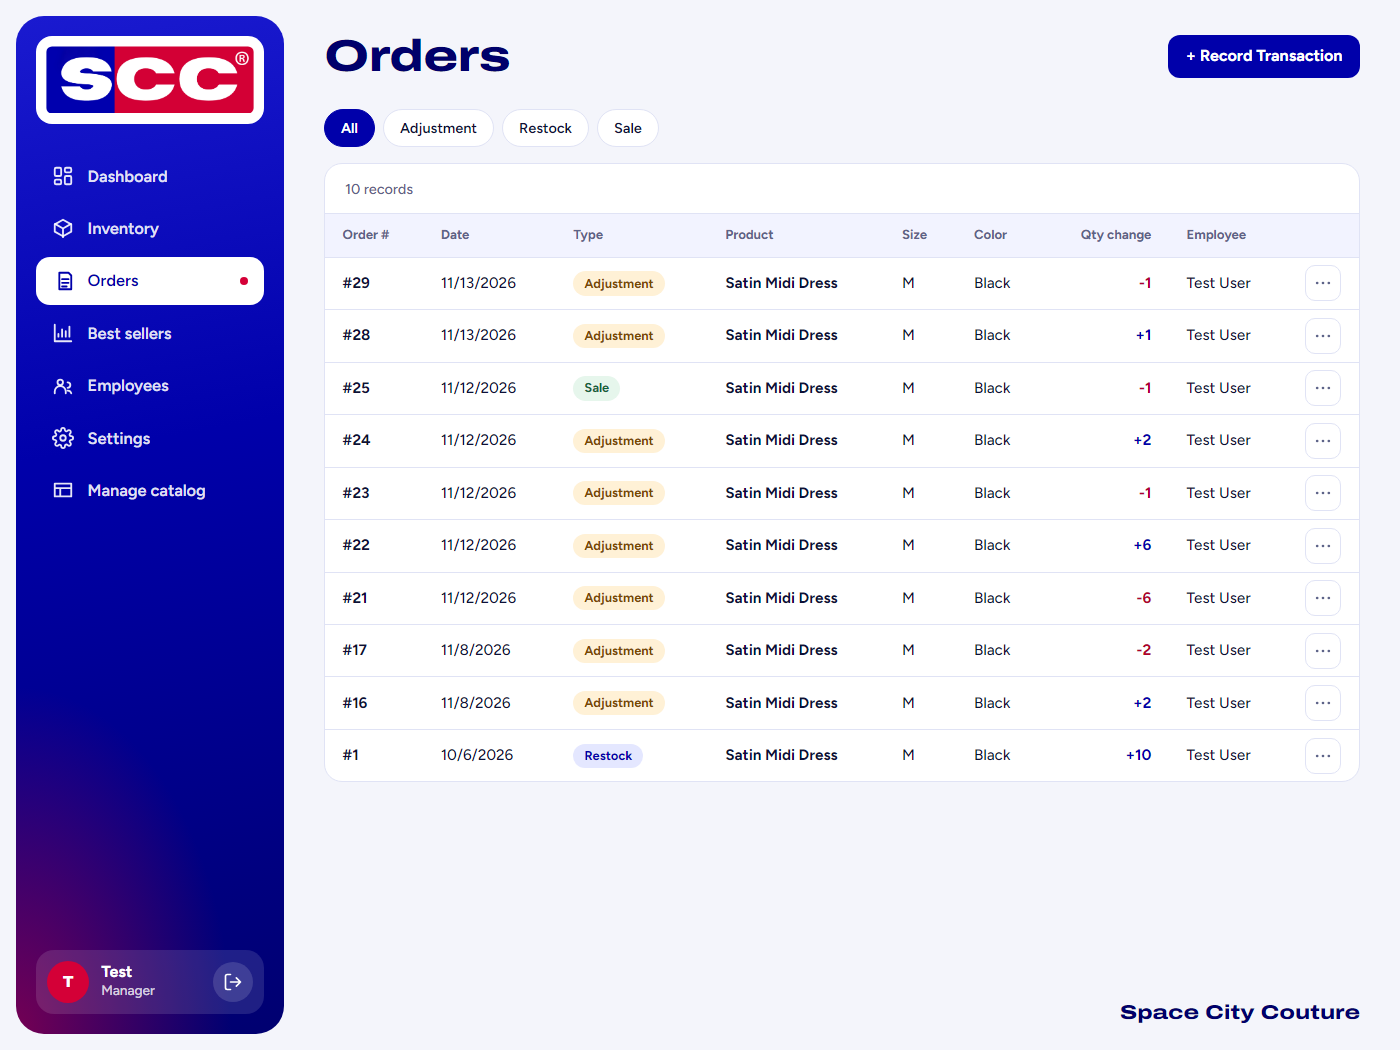
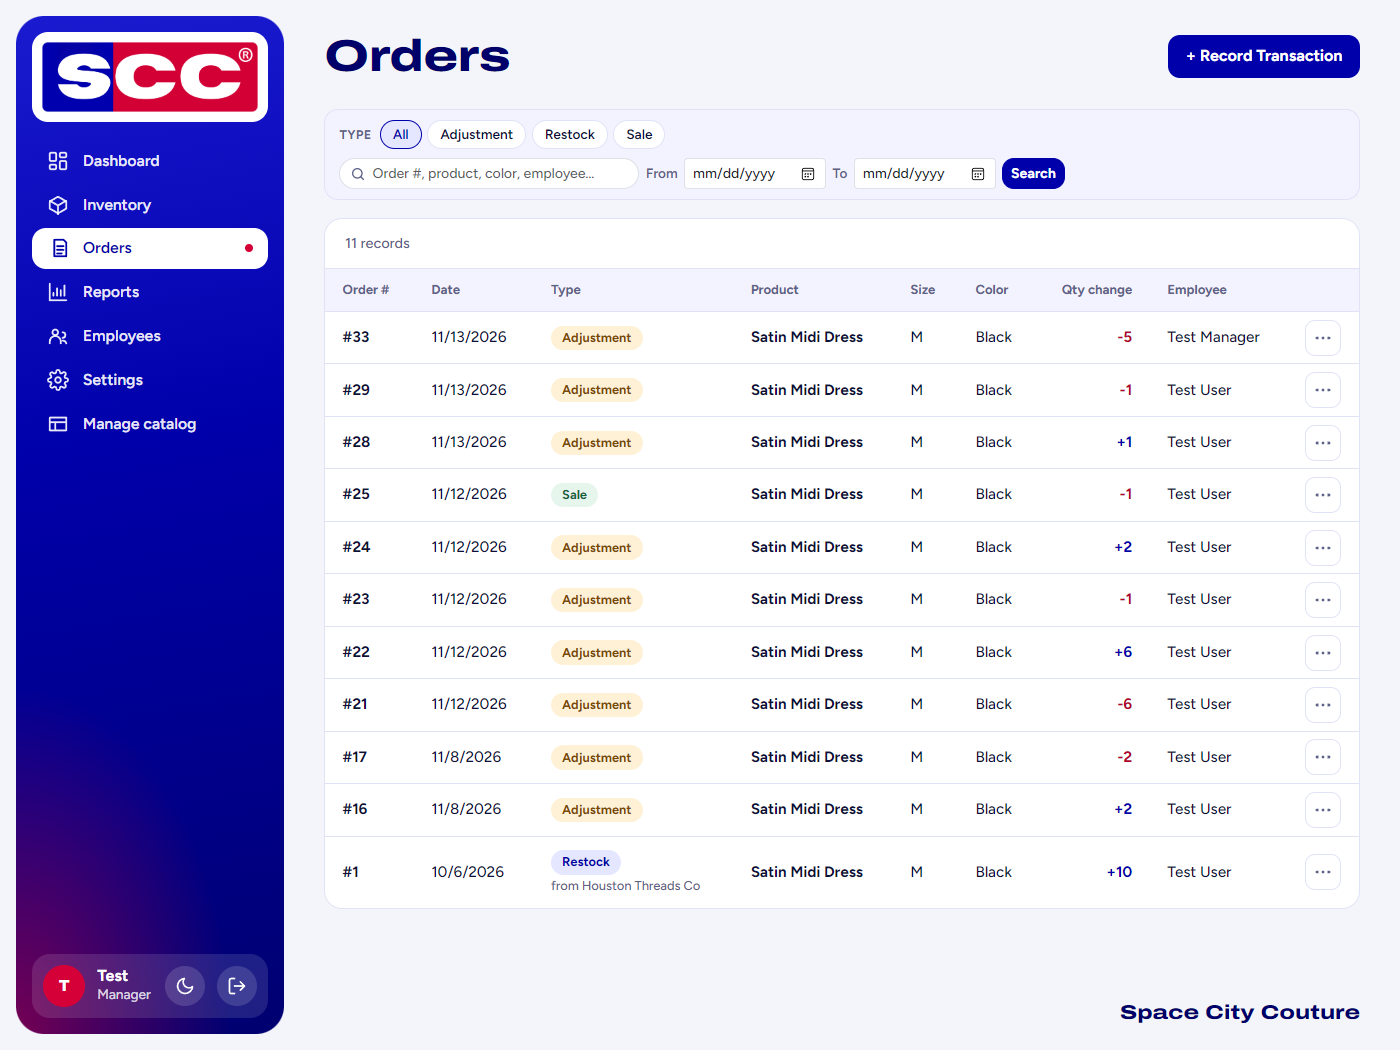
Search and filters on Inventory, Orders and Edit history; retake after screenshots
- Inventory: search (product, category, size, color, location), Category dropdown, Stock (low / out / in) and Status (available / not available) filters; filters combine and stay on after adjusting stock; old ?low=1 links still work
- Orders: search (order #, product, size, color, type, employee) runs in the database query so it covers every order; From / To dates; paging and type pills keep the search
- Edit history: search across names and changes; PDF / Excel use the same search
- Each search only searches its own page; shared searchbox partial
- docs/redesign-before-after: retook every "after" screenshot and added Reports, search and dark mode

diff --git a/frontend/server.js b/frontend/server.js
@@ -498,6 +498,63 @@ function groupInventory(rows, products, categories, threshold) {
     };
   }).sort((a, b) => String(a.name).localeCompare(String(b.name)));
 }
+// INVENTORY FILTERS (this page only): ?q= search, ?category=, ?stock=low|out|in, ?status=available|unavailable.
+// The old ?low=1 link (Dashboard) still means stock=low.
+function cleanSearch(value) {
+  return typeof value === 'string' ? value.replace(/\s+/g, ' ').trim().slice(0, 100) : '';
+}
+function inventoryFilters(query, groups) {
+  const q = cleanSearch(query.q);
+  const stock = ['low', 'out', 'in'].includes(query.stock) ? query.stock : (query.low === '1' ? 'low' : '');
+  const status = ['available', 'unavailable'].includes(query.status) ? query.status : '';
+  const wanted = typeof query.category === 'string' ? query.category.slice(0, 100) : '';
+  // only a category that exists (groups is null when we just rebuild the address)
+  const category = wanted && (!groups || groups.some(g => g.category === wanted)) ? wanted : '';
+  return { q, category, stock, status };
+}
+function inventoryQuery(filters, extra = {}) {
+  const all = { ...filters, ...extra };
+  return Object.keys(all).filter(k => all[k]).map(k => `${k}=${encodeURIComponent(all[k])}`).join('&');
+}
+function filterInventory(allGroups, filters, threshold) {
+  const words = filters.q.toLowerCase().split(' ').filter(Boolean);
+  const has = (text, word) => String(text || '').toLowerCase().includes(word);
+  const stockOk = v => {
+    const qty = Number(v.Quantity) || 0;
+    if (filters.stock === 'low') return qty <= threshold;
+    if (filters.stock === 'out') return qty === 0;
+    if (filters.stock === 'in') return qty > 0;
+    return true;
+  };
+  // counts for the pills: for everything that matches the search, category and status
+  const counts = { low: 0, out: 0, in: 0, available: 0, unavailable: 0 };
+  const groups = [];
+  for (const g of allGroups) {
+    if (filters.category && g.category !== filters.category) continue;
+    // every search word must be found in the product (name, category) or in the variant (size, color, location)
+    const variantText = v => [g.name, g.category, v.Size, v.Color, v.Location].join(' ');
+    const productMatches = words.every(w => has(g.name, w) || has(g.category, w));
+    const matching = words.length ? g.variants.filter(v => words.every(w => has(variantText(v), w))) : g.variants;
+    if (words.length && !productMatches && !matching.length) continue;
+    const searched = productMatches ? g.variants : matching;
+    if (!filters.status || (filters.status === 'available') === (g.available !== false)) {
+      for (const v of searched) {
+        const qty = Number(v.Quantity) || 0;
+        if (qty <= threshold) counts.low++;
+        if (qty === 0) counts.out++;
+        if (qty > 0) counts.in++;
+      }
+    }
+    if (!filters.stock || searched.some(stockOk)) counts[g.available === false ? 'unavailable' : 'available']++;
+    if (filters.status && (filters.status === 'available') !== (g.available !== false)) continue;
+    const variants = searched.filter(stockOk);
+    // a stock filter hides products with nothing left that fits it (and products with no variants)
+    if (filters.stock && !variants.length) continue;
+    groups.push(variants === g.variants ? g : { ...g, variants });
+  }
+  return { groups, counts };
+}
+
 app.get('/inventory', pageAccess, async (req, res) => {
   try {
     const [result, products, categories] = await Promise.all([
@@ -506,33 +563,34 @@ app.get('/inventory', pageAccess, async (req, res) => {
       apiGet('/api/categories').catch(() => [])
     ]);
     const allGroups = groupInventory(result.rows, products, categories, result.threshold);
-    // ?low=1 shows only the low stock variants (and the products they belong to).
-    const lowOnly = req.query.low === '1';
-    const lowCount = allGroups.reduce((n, g) => n + g.low, 0);
-    const groups = lowOnly
-      ? allGroups.filter(g => g.low).map(g => ({ ...g, variants: g.variants.filter(v => Number(v.Quantity) <= result.threshold) }))
-      : allGroups;
+    const filters = inventoryFilters(req.query, allGroups);
+    const { groups, counts } = filterInventory(allGroups, filters, result.threshold);
     // ?adjust=<Variant_ID> opens that row in Adjust stock mode (chosen from its ⋯ menu).
     const adjusting = /^[1-9]\d*$/.test(String(req.query.adjust || '')) ? String(req.query.adjust) : null;
     const recent = recentIds(req);
     return page(req, res, 'inventory', {
-      ...result, groups, allGroups, lowOnly, lowCount, adjusting, dataAvailable: true,
+      ...result, groups, allGroups, filters, counts, lowOnly: filters.stock === 'low', lowCount: counts.low,
+      categoryNames: [...new Set(allGroups.map(g => g.category).filter(Boolean))].sort((a, b) => a.localeCompare(b)),
+      adjusting, dataAvailable: true,
       newProducts: recent.products || [], newVariants: recent.variants || [], updatedVariants: recent.adjusted || []
     });
   } catch (err) {
     console.error('Inventory load failed:', err.message);
     return page(req, res, 'inventory', {
       items: [], rows: [], groups: [], allGroups: [], lowOnly: false, lowCount: 0, adjusting: null, threshold: 5, dataAvailable: false,
+      filters: inventoryFilters({}, []), counts: { low: 0, out: 0, in: 0, available: 0, unavailable: 0 }, categoryNames: [],
       message: apiError(err, 'Inventory could not be loaded.')
     });
   }
 });
 app.post('/inventory/:variantId/adjust', signedIn, async (req, res) => {
-  const back = `/inventory#v${encodeURIComponent(req.params.variantId)}`;
+  // come back to the same filtered view (the form sends the page's filters along)
+  const kept = inventoryQuery(inventoryFilters(Object.fromEntries(new URLSearchParams(String(req.body.filters || '').slice(0, 300))), null));
+  const back = `/inventory${kept ? '?' + kept : ''}#v${encodeURIComponent(req.params.variantId)}`;
   const quantity = String(req.body.New_Quantity ?? '').trim();
   if (!/^\d+$/.test(quantity) || !Number.isSafeInteger(Number(quantity))) {
     return flashAndRedirect(req, res, 'Enter the new stock count as a whole number (0 or more).',
-      `/inventory?adjust=${encodeURIComponent(req.params.variantId)}#v${encodeURIComponent(req.params.variantId)}`);
+      `/inventory?${kept ? kept + '&' : ''}adjust=${encodeURIComponent(req.params.variantId)}#v${encodeURIComponent(req.params.variantId)}`);
   }
   try {
     const result = await apiPut('/adjust/inventory', {
@@ -565,9 +623,16 @@ app.get('/orders', pageAccess, async (req, res) => {
   const selected = typeof req.query.type === 'string' ? req.query.type : '';
   // 100 orders per page, newest first; ?page=2 shows the next 100 older ones.
   const pageNumber = /^[1-9]\d{0,5}$/.test(String(req.query.page || '')) ? Number(req.query.page) : 1;
-  const fallback = { rows: [], types: [], selected, limit: 100, pageNumber, hasMore: false, dataAvailable: false };
+  // ?q= searches the orders (order #, product, size, color, type, employee); ?from= / ?to= limit the dates.
+  // The search runs in the database query, so it covers every order, not just this page of 100.
+  const validDate = v => /^\d{4}-\d{2}-\d{2}$/.test(String(v || '')) && !Number.isNaN(Date.parse(v));
+  const q = cleanSearch(req.query.q);
+  let from = validDate(req.query.from) ? String(req.query.from) : '';
+  let to = validDate(req.query.to) ? String(req.query.to) : '';
+  if (from && to && from > to) [from, to] = [to, from];
+  const fallback = { rows: [], types: [], selected, q, from, to, limit: 100, pageNumber, hasMore: false, dataAvailable: false };
   try {
-    const reply = await apiGet('/orders', { type: selected, limit: 100, offset: (pageNumber - 1) * 100 });
+    const reply = await apiGet('/orders', { type: selected, q, from, to, limit: 100, offset: (pageNumber - 1) * 100 });
     const rows = arrayData(Array.isArray(reply) ? reply : reply?.rows).map(normalizeOrder);
     return page(req, res, 'orders', {
       ...fallback, rows, types: arrayData(reply?.types),
@@ -810,10 +875,11 @@ app.get('/reports/history', managerOnly, async (req, res) => {
   const person = typeof req.query.employee === 'string' && /^\d+$/.test(req.query.employee) ? req.query.employee : '';
   const from = validDate(req.query.from) ? String(req.query.from) : '';
   const to = validDate(req.query.to) ? String(req.query.to) : '';
+  const q = cleanSearch(req.query.q);
   const exporting = ['pdf', 'xlsx', 'csv'].includes(req.query.format);
   // the PDF and Excel file hold every matching change; the page shows 100 at a time
   const pageNumber = !exporting && /^[1-9]\d{0,5}$/.test(String(req.query.page || '')) ? Number(req.query.page) : 1;
-  const filters = { area, employee: person, from, to };
+  const filters = { area, employee: person, from, to, q };
   const fallback = { ...filters, pageNumber, entries: [], total: 0, hasMore: false, areas: [], people: [], dataAvailable: false };
   try {
     const reply = await apiRequest('GET', '/history', {

diff --git a/public/css/styles.css b/public/css/styles.css
@@ -1212,6 +1212,15 @@ option.opt-new { background: var(--row-new); color: #a3002a; font-weight: 700; }
 .filter-clear { font-size: 0.85rem; font-weight: 600; }
 .row-link { text-decoration: none; }
 .row-link:hover strong { text-decoration: underline; }
+/* Search box (each page searches only itself) */
+.search-box { position: relative; display: inline-flex; align-items: center; flex: 0 1 300px; width: 300px; min-width: 0; }
+.search-box .search-icon { position: absolute; left: 0.65rem; color: var(--muted); pointer-events: none; }
+.filter-bar .search-box input.form-control, .search-box input { width: 100%; padding-left: 2rem; padding-right: 2rem; border-radius: 99px; }
+.search-box input::-webkit-search-cancel-button { display: none; }
+.search-clear { position: absolute; right: 0.35rem; display: inline-flex; align-items: center; justify-content: center; width: 1.6rem; height: 1.6rem; border-radius: 50%; color: var(--muted); text-decoration: none; font-size: 0.85rem; }
+.search-clear:hover, .search-clear:focus-visible { background: var(--surface-2); color: var(--ink); }
+.filter-label-gap { margin-left: 0.75rem; }
+@media (max-width: 640px) { .search-box { width: 100%; flex-basis: 100%; } .filter-label-gap { margin-left: 0; } }
 @media print { .filter-bar, .report-tabs { display: none !important; } }
 
 

diff --git a/public/main.js b/public/main.js
@@ -178,3 +178,12 @@
   if (systemDark && systemDark.addEventListener) systemDark.addEventListener('change', function () { if (stored() === 'system') apply('system'); });
   apply(stored());
 })();
+
+// Filter dropdowns marked data-autosubmit apply as soon as you pick one (the Search button still works without JavaScript).
+(function () {
+  document.querySelectorAll('select[data-autosubmit]').forEach(function (select) {
+    select.addEventListener('change', function () {
+      if (select.form) select.form.requestSubmit ? select.form.requestSubmit() : select.form.submit();
+    });
+  });
+})();

diff --git a/backend/reporting.py b/backend/reporting.py
@@ -135,9 +135,37 @@ def register_reporting_routes(app, connect, read_query):
             'SELECT Transaction_Type FROM Transaction_Type ORDER BY Transaction_Type')]
         if type_filter and type_filter not in types:
             return jsonify({'rows': [], 'types': types, 'limit': limit, 'offset': offset, 'has_more': False})
-        where = 'WHERE t.Transaction_Type = %s' if type_filter else ''
-        params = (type_filter, limit + 1, offset) if type_filter else (limit + 1, offset)
-        rows = fetch(ORDER_SELECT + where + ' ORDER BY i.Date DESC, i.Invoice_ID DESC LIMIT %s OFFSET %s', params)
+        conditions, params = [], []
+        if type_filter:
+            conditions.append('t.Transaction_Type = %s')
+            params.append(type_filter)
+        # ?q= search (Orders page only): every word must match the order #, product, size, color,
+        # type or employee. Values are passed as parameters; % and _ are escaped so they're literal.
+        search = ' '.join(str(request.args.get('q', '')).split())[:100]
+        for word in search.split(' ') if search else []:
+            like = '%' + word.replace('\\', '\\\\').replace('%', '\\%').replace('_', '\\_') + '%'
+            parts = ['p.Name LIKE %s', 's.Size LIKE %s', 'co.Color LIKE %s', 't.Transaction_Type LIKE %s',
+                     "CONCAT(e.First_Name, ' ', e.Last_Name) LIKE %s"]
+            word_params = [like] * len(parts)
+            number = word.lstrip('#')
+            if number.isdigit() and len(number) <= 9:
+                parts.append('i.Invoice_ID = %s')     # "42" or "#42" finds order #42
+                word_params.append(int(number))
+            conditions.append('(' + ' OR '.join(parts) + ')')
+            params.extend(word_params)
+        # ?from= / ?to= (YYYY-MM-DD), both days included
+        for key, sql in (('from', 'i.Date >= %s'), ('to', 'i.Date < DATE_ADD(%s, INTERVAL 1 DAY)')):
+            value = str(request.args.get(key, '')).strip()
+            if value:
+                try:
+                    date.fromisoformat(value)
+                except ValueError:
+                    return jsonify({'message': f'"{key}" must be a date like 2026-11-01.'}), 400
+                conditions.append(sql)
+                params.append(value)
+        where = (' WHERE ' + ' AND '.join(conditions)) if conditions else ''
+        params.extend([limit + 1, offset])
+        rows = fetch(ORDER_SELECT + where + ' ORDER BY i.Date DESC, i.Invoice_ID DESC LIMIT %s OFFSET %s', tuple(params))
         has_more = len(rows) > limit
         rows = rows[:limit]
         for row in rows:

diff --git a/backend/history.py b/backend/history.py
@@ -269,6 +269,8 @@ def register_history(app, connect, read_query, read_settings):
         person = str(request.args.get('employee', '')).strip()
         start = str(request.args.get('from', '')).strip()[:10]
         end = str(request.args.get('to', '')).strip()[:10]
+        # ?q= search (Edit history only): every word must appear in the entry (name, type, who, changes)
+        words = ' '.join(str(request.args.get('q', '')).split())[:100].casefold().split()
         try:
             limit = min(max(int(request.args.get('limit', 100)), 1), 1000)
             offset = max(int(request.args.get('offset', 0)), 0)
@@ -290,6 +292,13 @@ def register_history(app, connect, read_query, read_settings):
                         continue
                     if (start and day < start) or (end and day > end):
                         continue
+                    if words:
+                        text = ' '.join(str(entry.get(k, '')) for k in ('target', 'kind', 'area', 'action', 'employee'))
+                        for change in entry.get('changes') or []:
+                            text += ' ' + ' '.join(str(change.get(k, '')) for k in ('field', 'from', 'to'))
+                        text = text.casefold()
+                        if not all(word in text for word in words):
+                            continue
                     entries.append(entry)
         entries.reverse()                        # newest first
         return jsonify({

diff --git a/docs/redesign-before-after/README.md b/docs/redesign-before-after/README.md
@@ -1,21 +1,23 @@
 # Redesign: before and after
 
-Screenshots of the same pages, logged in as the same manager account, with the same data from our shared database (taken November 13, 2026).
-**Before** is `dev` right after PR #17. **After** is the redesign branch, which builds the suggestions in [`docs/design-suggestions`](../design-suggestions/README.md).
+Screenshots of the same pages, logged in as the same manager account, with the same data from our shared database.
+**Before** is `dev` right after PR #17 (taken November 13, 2026). **After** is the redesign branch, which builds the suggestions in [`docs/design-suggestions`](../design-suggestions/README.md) (retaken November 14, 2026, with search, filters, Reports and dark mode).
 
 The data is mostly test records (one product, lots of +1/−1 adjustments), so the pages look emptier than they will with real products.
 
 | # | Page | What changed |
 |---|---|---|
 | 1 | [Dashboard](#1-dashboard) | Recent orders shows Sales, with Restocks / Adjustments tabs; current inventory (units in stock) above Low stock; "Stock in vs. out" replaces the flat trend graph |
-| 2 | [Inventory](#2-inventory) | Variants grouped under their product with a total; ⋯ menu; Adjust stock with − / +; "Low stock only" filter; "Not available" tag |
+| 2 | [Inventory](#2-inventory) | Variants grouped under their product with a total; ⋯ menu; Adjust stock with − / +; search box; Category, Stock (low / out / in) and Status filters; "Not available" tag |
 | 3 | [Add variants](#3-add-variants) | Pick sizes and colors, check the combinations you have, each with its own stock, location, price and cost |
 | 4 | [Edit variant](#4-edit-variant) | Named "Satin Midi Dress – M / Black" instead of "Edit variant #1" |
-| 5 | [Orders](#5-orders) | One actions column with a ⋯ menu; "Order #" |
+| 5 | [Orders](#5-orders) | One actions column with a ⋯ menu; "Order #"; search (order #, product, color, employee) and From / To dates |
 | 6 | [Edit order](#6-edit-order) | Type, item, date and quantity can be corrected; explains the stock change before saving |
 | 7 | [Employees](#7-employees) | ⋯ menu; "(you)"; + Add employee on the page instead of the sidebar |
-| 8 | [Settings](#8-settings) | Change my password, low stock threshold, log out |
-| 9 | [Manage catalog](#9-manage-catalog) | Same layout in every box; no "Product variants" box; + Add product inside its box |
+| 8 | [Settings](#8-settings) | Change my password (with show/hide), low stock threshold, Light / Dark theme, log out |
+| 9 | [Manage catalog](#9-manage-catalog) | Same layout in every box; no "Product variants" box; + Add product inside its box; colors and sizes can be deleted |
+| 10 | [Reports](#10-reports-new) | New: Sales report, Inventory report, Best sellers and Edit history, each with Preview PDF and Download Excel |
+| 11 | [Dark mode](#11-dark-mode-new) | New: moon / sun button in the sidebar, or Settings → Appearance |
 
 ---
 
@@ -33,9 +35,13 @@ Before: 4 of the 5 "Recent Orders" were adjustments, the trend graph was a flat 
 |---|---|
 | ![Inventory before](before-2-inventory.png) | ![Inventory after](after-2-inventory.png) |
 
-After, with the **Low stock only** filter (used in demo step 8):
+After, with the **Low stock** filter (used in demo step 8):
 
 ![Inventory low stock filter](after-2c-inventory-low-stock-filter.png)
+
+After, searching "black" (it only searches Inventory; a size or color search shows just those variants):
+
+![Inventory search](after-2d-inventory-search.png)
 
 After, in Adjust stock mode (⋯ → Adjust stock):
 
@@ -67,6 +73,10 @@ After, with a row's ⋯ menu open:
 
 ![Orders menu](after-5b-orders-menu.png)
 
+After, searching "sale" (it searches every order, not just the 100 on the page):
+
+![Orders search](after-5c-orders-search.png)
+
 ## 6. Edit order
 
 | Before | After |
@@ -90,3 +100,19 @@ After, with a row's ⋯ menu open:
 | Before | After |
 |---|---|
 | ![Manage catalog before](before-9-manage-catalog.png) | ![Manage catalog after](after-9-manage-catalog.png) |
+
+## 10. Reports (new)
+
+There was no Reports page before. The tabs switch reports; the strip under them filters the one you're on.
+
+| Sales report | Inventory report |
+|---|---|
+| ![Sales report](after-10-sales-report.png) | ![Inventory report](after-10b-inventory-report.png) |
+
+| Best sellers | Edit history (managers) |
+|---|---|
+| ![Best sellers](after-10c-best-sellers.png) | ![Edit history](after-10d-edit-history.png) |
+
+## 11. Dark mode (new)
+
+![Dark mode](after-11-dark-mode.png)
